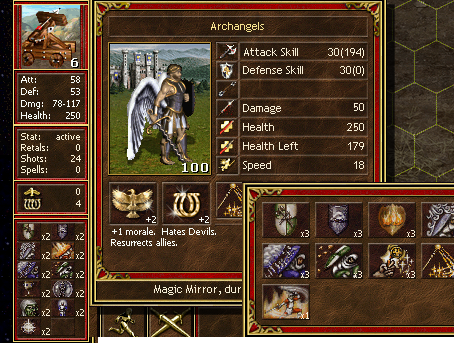
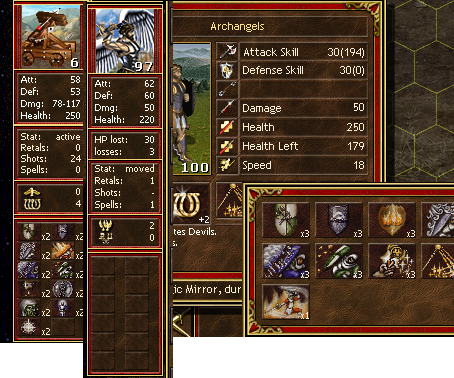
update
added hp/troops losses strings
fixed crash when trying open experience outside the battle

diff --git a/NewCombatDlgItems/battle_Dlg_MonPreview.cpp b/NewCombatDlgItems/battle_Dlg_MonPreview.cpp
@@ -22,25 +22,42 @@ _LHF_(Battle_Dlg_Create)
 		H3DlgDef* def;
 		H3DlgText* text;
 
-		int item_id = 4000;
 		int x_pos, y_pos;
 
 		// add new modified BG
 		H3DlgPcx* _bg = H3DlgPcx::Create(0, 70 + DLG_HEIGHT_ADD, creature_stat_bg[0]->width, creature_stat_bg[0]->height, 777, nullptr);
-		if (dlg_panel->GetX() < 400)
-		{			
-			_bg->SetPcx(creature_stat_bg[0]);
-			_bg->AdjustColor(P_CombatManager->heroOwner[0]);
-		}
-		else
-		{
-			_bg->SetPcx(creature_stat_bg[1]);
-			int player_id = P_CombatManager->hero[1] > 0 ? P_CombatManager->heroOwner[1] : P_CombatManager->heroOwner[0];
-			_bg->AdjustColor(player_id);
-		}
-		
-		
+		static int call_counter = 0;
+		bool side = call_counter++ & 1;
+		int player_id = P_CombatManager->hero[side] > 0 ? P_CombatManager->heroOwner[side] : P_CombatManager->heroOwner[!side];
+		_bg->SetPcx(creature_stat_bg[side]);
+		_bg->AdjustColor(player_id);
+
 		dlg_panel->AddItem(_bg);
+
+		for (auto it : dlg_panel->GetItems())
+		{
+			int id = it->GetID();
+			if (id >= 2210 && id <= 2213)
+			{
+				//x_pos
+				if (id % 2 == 0)
+					it->Cast<H3DlgText>()->SetAlignment(eTextAlignment::MIDDLE_RIGHT);
+				else
+					it->SetY(it->GetY()+40);
+			}
+
+		}
+		int item_id = 4000;
+		for (int i = 4; i < 6; i++)
+		{
+			x_pos = 9;
+			y_pos = 12 * i -3 + DLG_HEIGHT_ADD;
+			H3String temp = "gem_plugin.combat_dlg.";
+			temp.Append(i);
+			text = H3DlgText::Create(x_pos, y_pos, 60, 12, Era::tr(temp.String()), NH3Dlg::Text::TINY, 1, item_id++, eTextAlignment::MIDDLE_LEFT);
+			dlg_panel->AddItem(text);
+		}
+
 
 
 		item_id = 4004;
@@ -66,7 +83,7 @@ _LHF_(Battle_Dlg_Create)
 			for (int i = 0; i < 4; i++)
 			{
 				x_pos = 9;
-				y_pos = 11 * i + 132;
+				y_pos = 12 * i + 74 + DLG_HEIGHT_ADD;
 				//json_name + i;Era::tr((json_name + i).String())
 				H3String temp = "gem_plugin.combat_dlg.";
 				temp.Append(i);
@@ -99,14 +116,14 @@ _LHF_(Battle_Dlg_Create)
 		for (int i = 0; i < 12; i++)
 		{
 			x_pos = 5 + (i & 1) * 34;
-			y_pos = 224 + i / 2 * 19;
+			y_pos = 168 + DLG_HEIGHT_ADD + i / 2 * 19;
 
 			H3DlgPcx16* _pcx = H3DlgPcx16::Create(x_pos, y_pos, i_width, i_height, item_id++, nullptr);
 			_pcx->SetPcx(smaller_spellint[0]);
 			dlg_panel->AddItem(_pcx);
 
-			x_pos = 5 + (i & 1) * 34;
-			y_pos = 224 + i / 2 * 19;
+		//	x_pos = 5 + (i & 1) * 34;
+		//	y_pos = 224 + i / 2 * 19;
 
 			text = H3DlgText::Create(x_pos + 10, y_pos + 8, 24, 12, "", NH3Dlg::Text::TINY, 1, item_id++, eTextAlignment::MIDDLE_RIGHT);
 			dlg_panel->AddItem(text);
@@ -195,7 +212,12 @@ _LHF_(Battle_Dlg_StackInfo_Show)
 					}
 					
 					break;
-
+				case 2210:
+					it->Cast<H3DlgText>()->SetText(std::to_string(stack->healthLost).c_str());
+					break;
+				case 2212:
+					it->Cast<H3DlgText>()->SetText(std::to_string(stack->numberAtStart - stack->numberAlive).c_str());
+					break;
 				case 4005:
 					//def = it->Cast<H3DlgDef>();
 					def = nullptr;

diff --git a/NewCombatDlgItems/dllmain.cpp b/NewCombatDlgItems/dllmain.cpp
@@ -4,9 +4,6 @@
 #include "battle_Dlg_SpellsPreview.cpp"
 
 using namespace h3;
-_LHF_(Dlg_CreatureInfo_RmcProc);
-_LHF_(Dlg_CreatureInfo_Battle_BeforeCreate);
-
 
 _LHF_(HooksInit)
 {
@@ -15,21 +12,24 @@ _LHF_(HooksInit)
     //H3Ini* myIni = new H3Ini;
 
     //_PI->WriteLoHook(0x462E2B, Battle_Dlg_Create);
+
     if (std::atoi(Era::tr("gem_plugin.combat_dlg.enable.popup")))
     {
         _PI->WriteLoHook(0x46D6CB, Battle_Dlg_Create);
         _PI->WriteLoHook(0x46D97A, Battle_Dlg_StackInfo_Show);
         CreateResources();
-        _PI->WriteDword(0x47205A + 1, 288 + DLG_HEIGHT_ADD); // left dlg height ++
-        _PI->WriteDword(0x472092 + 1, 288 + DLG_HEIGHT_ADD); // right dlg height ++
-        _PI->WriteDword(0x472061 + 1, 267 - DLG_HEIGHT_ADD); // left dlg x_pos ++
-        _PI->WriteDword(0x472099 + 1, 267 - DLG_HEIGHT_ADD); // right dlg x_pos ++
+        constexpr int dlg_height = 288 + DLG_HEIGHT_ADD;
+        constexpr int dlg_y = 267 - DLG_HEIGHT_ADD + 13;
+        _PI->WriteDword(0x47205A + 1, dlg_height); // left dlg height ++
+        _PI->WriteDword(0x472092 + 1, dlg_height); // right dlg height ++
+        _PI->WriteDword(0x472061 + 1, dlg_y); // left dlg y_pos ++
+        _PI->WriteDword(0x472099 + 1, dlg_y); // right dlg y_pos ++
 
     }
     if (std::atoi(Era::tr("gem_plugin.combat_dlg.enable.spells")))
     {
     _PI->WriteLoHook(0x5F4C5D, Dlg_CreatureInfo_RmcProc);
-    _PI->WriteLoHook(0x46846A, Dlg_CreatureInfo_Battle_BeforeCreate);
+    _PI->WriteLoHook(0x5F3741, Dlg_CreatureInfo_Battle_BeforeCreate);
     }
 
     //_PI->WriteLoHook(0x46D6CB, Dlg_LobbyMenu_NewGame);

diff --git a/NewCombatDlgItems/header.h b/NewCombatDlgItems/header.h
@@ -17,7 +17,7 @@
 Patcher* globalPatcher;
 PatcherInstance* _PI;
 
-#define DLG_HEIGHT_ADD 56
+#define DLG_HEIGHT_ADD 86
 #include "map"
 #include "string"
 
